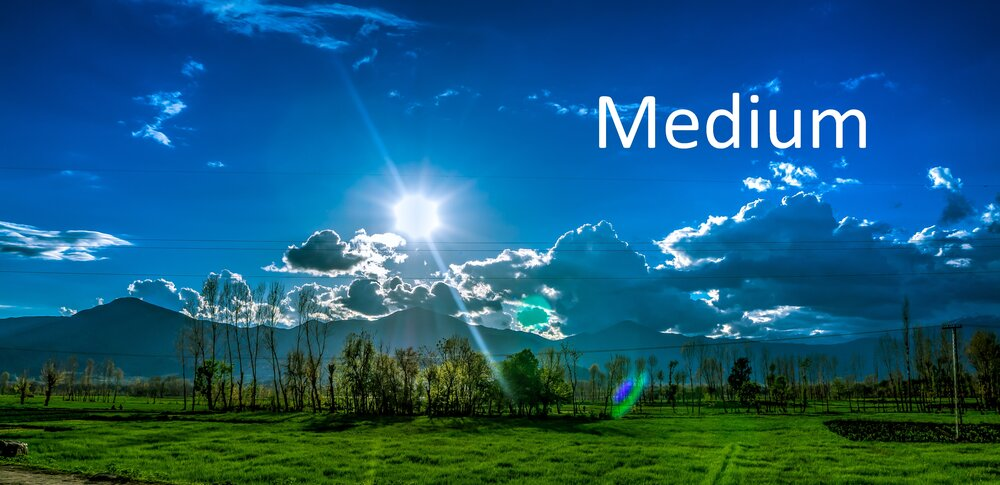
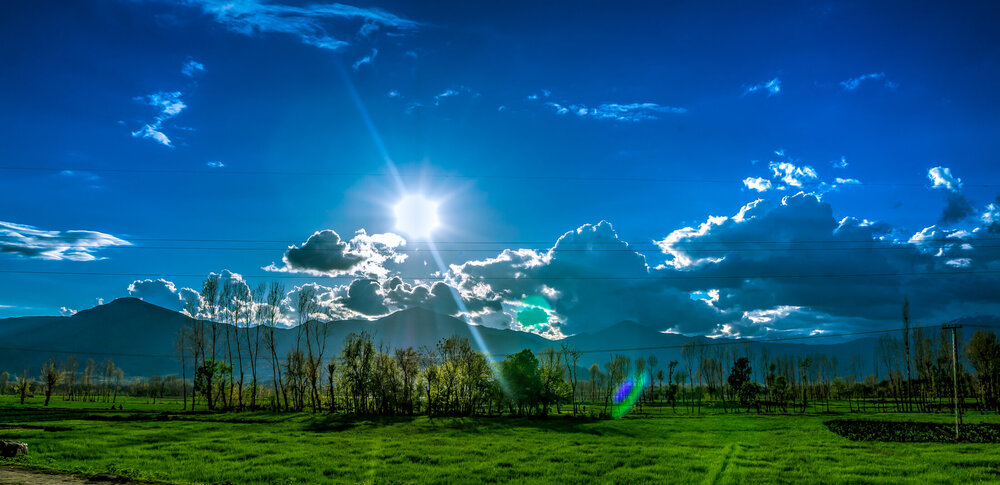
I hate the look of my home page now

diff --git a/lesson9/js/home.js b/lesson9/js/home.js
@@ -9,44 +9,47 @@ fetch(requestURL)
     const towns = jsonObject['towns'];
     const wantedTowns = ['Preston', 'Soda Springs', 'Fish Haven'];
     var firstItem = true;
-    for (let i = 0; i < towns.length; i++ ) {
-      if(wantedTowns.includes(towns[i].name)) {
-        let card = document.createElement('section');
-        let div = document.createElement('div');
-        let h2 = document.createElement('h2');
-        let p1 = document.createElement('p');
-        let p2 = document.createElement('p');
-        let p3 = document.createElement('p');
-        let p4 = document.createElement('p');
-        let image = document.createElement('img');
+    for (let j = 0; j < wantedTowns.length; j++) {
+      for (let i = 0; i < towns.length; i++ ) {
+        console.log(towns[i].name);
+        if(wantedTowns[j] == towns[i].name) {
+          let card = document.createElement('section');
+          let div = document.createElement('div');
+          let h2 = document.createElement('h2');
+          let p1 = document.createElement('p');
+          let p2 = document.createElement('p');
+          let p3 = document.createElement('p');
+          let p4 = document.createElement('p');
+          let image = document.createElement('img');
 
-        h2.textContent = String(`${towns[i].name}`);
-        p1.innerHTML = String(`${towns[i].motto}`);
-        p2.innerHTML = String(`Year Founded: ${towns[i].yearFounded}`);
-        p3.innerHTML = String(`Population: ${towns[i].currentPopulation}`);
-        p4.innerHTML = String(`Annual Rain Fall: ${towns[i].averageRainfall}`);
-        image.src = String(`./images/${towns[i].photo}`);
-        image.alt = String(`${towns[i].name} - photo`);
-        image.width = "250";
+          h2.textContent = String(`${towns[i].name}`);
+          p1.innerHTML = String(`${towns[i].motto}`);
+          p2.innerHTML = String(`Year Founded: ${towns[i].yearFounded}`);
+          p3.innerHTML = String(`Population: ${towns[i].currentPopulation}`);
+          p4.innerHTML = String(`Annual Rain Fall: ${towns[i].averageRainfall}`);
+          image.src = String(`./images/${towns[i].photo}`);
+          image.alt = String(`${towns[i].name} - photo`);
+          image.width = "250";
 
-        div.appendChild(h2);
-        div.appendChild(p1);
-        div.appendChild(p2);
-        div.appendChild(p3);
-        div.appendChild(p4);
-        card.appendChild(div);
-        card.appendChild(image);
-        let location =  String(`./${String(towns[i].name).replace(' ', '-')}.html`);
-        location = location.toLowerCase();
-        console.log("location: ", location);
-        function openLink(e) {
-          e.preventDefault();
-          window.location = location;
+          div.appendChild(h2);
+          div.appendChild(p1);
+          div.appendChild(p2);
+          div.appendChild(p3);
+          div.appendChild(p4);
+          card.appendChild(div);
+          card.appendChild(image);
+          let location =  String(`./${String(towns[i].name).replace(' ', '-')}.html`);
+          location = location.toLowerCase();
+          console.log("location: ", location);
+          function openLink(e) {
+            e.preventDefault();
+            window.location = location;
+          }
+          card.onclick = openLink;
+
+          document.querySelector('div.article').appendChild(card);
+          firstItem = false;
         }
-        card.onclick = openLink;
-
-        document.querySelector('div.article').appendChild(card);
-        firstItem = false;
       }
     }
   });

diff --git a/lesson9/home.html b/lesson9/home.html
@@ -34,10 +34,29 @@
         <li class="navElement" onclick = "toggleActive(this)"><a href="gallary.html">Gallery</a></li>
       </ul>
     </nav>
-    <main>
-      <div class="article" id="cards-container">
-      </div>
-    </main>
+    <div id="banner">
+      <picture class="banner-pic">
+        <source media="(max-width: 400px)" srcset="./images/Banner-400.jpg">
+        <source media="(max-width: 1000px)" srcset="./images/Banner-1000.jpg">
+        <source media="(max-width: 1600px)" srcset="./images/Banner-1600.jpg">
+        <img src="./images/Banner-2200.jpg" alt="banner pic">
+      </picture>
+      <main>
+        <div class="article" id="cards-container">
+        </div>
+      </main>
+    </div>
+    <div class="article" id="main-article">
+      <h1>Welcome!</h1>
+      Welcome to the Idaho Weather page! Whether this is your first time to our page or you visit every day,
+      we are here to help you get live updates on the latest weather in the cities of Preston, Soda Springs,
+      and Fish Haven Idaho. This page utilizes stock photos from https://www.pexels.com/ and live updates 
+      from OpenWeather APIs. This page is designed and updated by Matthew Christensen, a student at Brigham
+      Young University - Idaho. If you'd like to report a bug, you're probably my professor and can reach me 
+      through the student portal. If you are not my professor I don't really know why you are using this website.
+      This article will eventually be replaced with something more informative, but for now, enjoy the weather 
+      forcast and enjoy this place-holder text.
+    </div>
     <div class="contact-information">
       <img id="map" src="./images/place-holder.jpg" data-src="./images/preston-map.png" alt="map"/>
       <div id="footer-contact-info">

diff --git a/lesson9/css/large.css b/lesson9/css/large.css
@@ -88,23 +88,50 @@
   }
   #cards-container {
     grid-template-columns: 1fr 1fr 1fr;
-    margin:1em;
-    width: auto;
+    margin-top: 1vw !important;
   }
   #cards-container section {
     flex-direction: column;
     cursor: pointer;
+    box-shadow: 0px 5px 8px #1a1a1a;
+  }
+  @keyframes hovermain {
+    from {box-shadow: 0px 5px 8px #1a1a1a; margin: 0; }
+    to {box-shadow: 10px 15px 8px #1a1a1a;; margin: -5px; }
   }
   #cards-container section:hover {
-    animation-name: hoverfigure;
+    animation-name: hovermain;
     animation-duration: .2s;
     margin: -5px;
-    box-shadow: 10px 15px 8px #888888;
+    box-shadow: 10px 15px 8px #1a1a1a;
   }
   #cards-container section img {
     align-self: end;
+    max-width: 100%;
+    width: 20vw;
   }
   #cards-container section div {
-    height: 15rem;
+    height: 12rem;
+  }
+  #cards-container section p {
+    margin-top: 2% !important;
+  }
+  #cards-container section h2 {
+    margin-bottom: 1%;
+  }
+  main {
+    display: float;
+    position: absolute;
+    top: 2vw;
+    left: 0;
+    right: 0;
+    margin-top: 0;
+    margin-left: auto;
+    margin-right: auto;
+    background-color:rgba(238, 238, 238, 0.0);
+    box-shadow: none;
+  }
+  main div section {
+    background-color:rgba(238, 238, 238, 0.6) !important; 
   }
 }

diff --git a/lesson9/css/small.css b/lesson9/css/small.css
@@ -434,7 +434,10 @@ form label textarea {
 }
 #cards-container section div p:nth-of-type(1) {
   font-style: italic;
-  font-size: 1em;
+  font-size: .8em;
+}
+#cards-container section div {
+  height: auto;
 }
 #cards-container section p {
   font-size: 1.2em;
@@ -446,3 +449,17 @@ form label textarea {
   margin-bottom: 0;
 }
 /* --------------------------------------*/
+#main-article {
+  background-color: white;
+  font-size: 1.2rem;
+  padding: 1.2rem;
+  width: 100%;
+  max-width: 875px;
+  margin-left: auto;
+  margin-right: auto;
+  border-radius: 25px;
+}
+#main-article h1 {
+  margin-top: 0;
+  font-size: 5em;
+}
